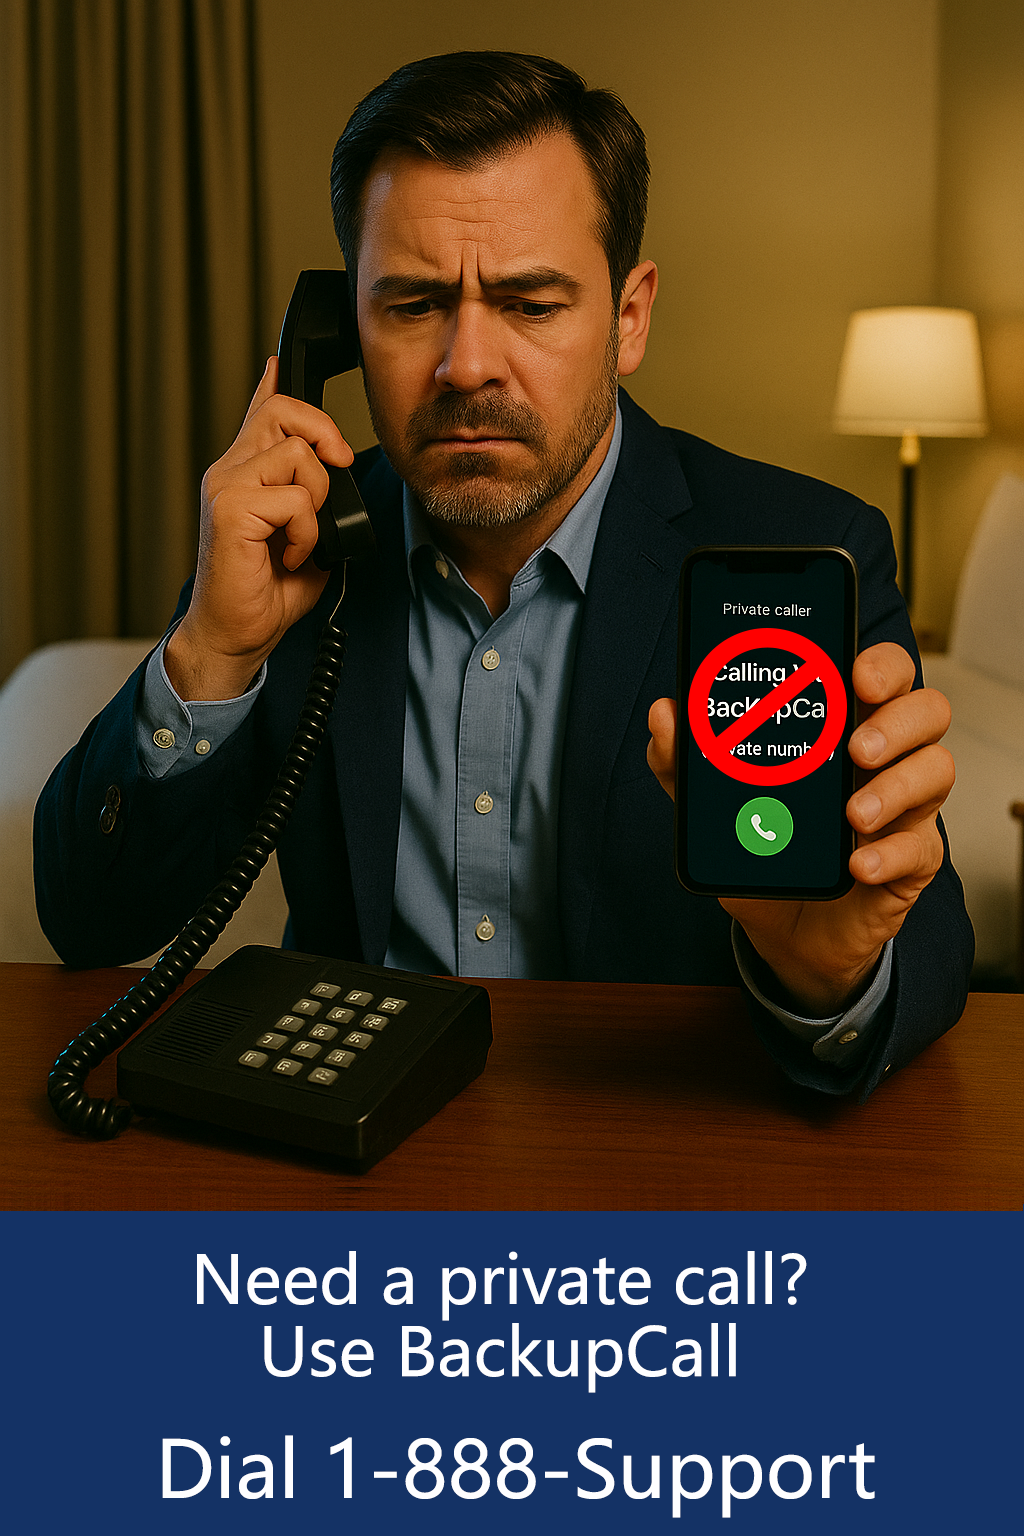
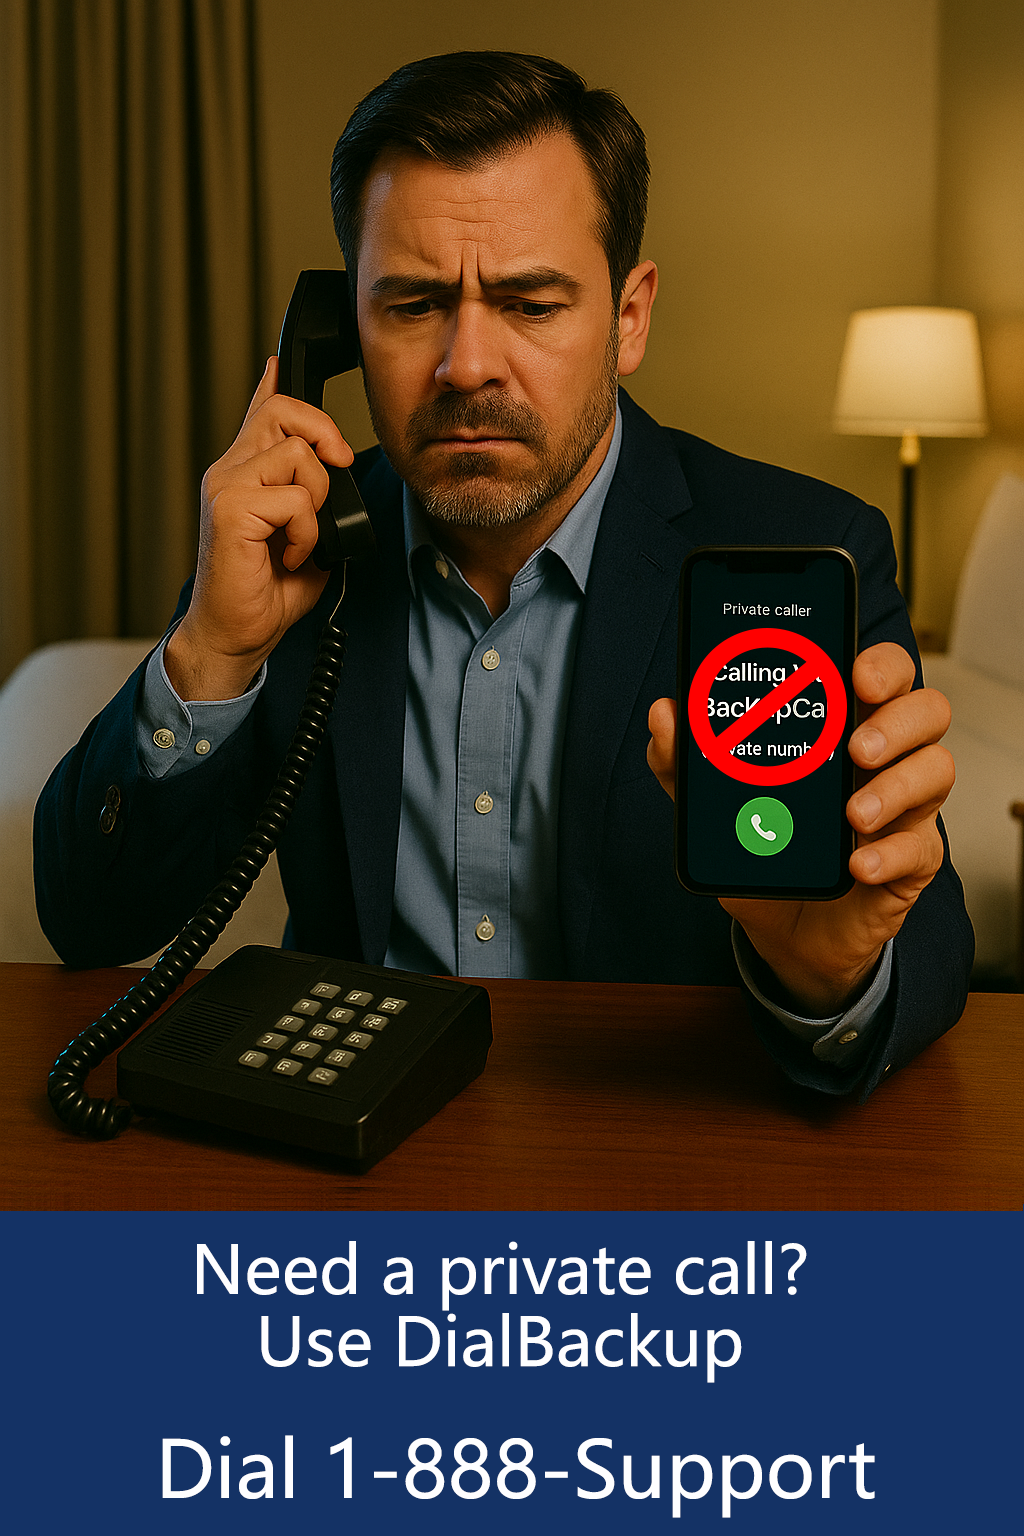
update image for modify

Changed region(s): [[0.1875, 0.8125, 0.7188, 0.9062], [0.75, 0.8125, 0.7812, 0.8438]]

diff --git a/src/components/Howitworks/index.tsx b/src/components/Howitworks/index.tsx
@@ -11,7 +11,7 @@ const whydata: whydata[] = [
         subheading: "Connect your Google account to import your contacts phone numbers.",
     },
     {
-        heading: "Dial the 888-Support number",
+        heading: "Dial  888-Support or 888-787-7678",
         subheading: "Say a name or use the keypad menu. We’ll find the right contact.",
     },
     {
